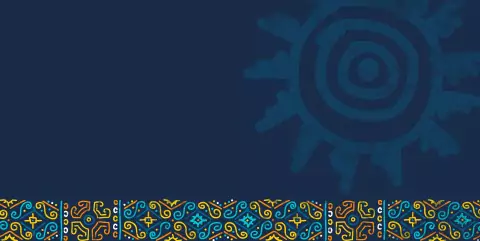
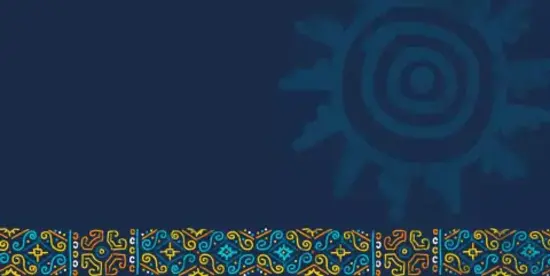
Minor Changes

Changed region(s): [[0.0, 0.8133, 1.0, 1.0]]

diff --git a/ucsd.edu/index.html b/ucsd.edu/index.html
@@ -824,7 +824,7 @@
               <img
                 alt="Two researchers look at large wildfire camera feeds"
                 class="first-slide"
-                src="_images/homepage/img-hero-wildfire-video-2023/original.webp"
+                src="_images/homepage/img-hero-wildfire-video-2023/small.webp"
                 tabindex="0"
               />
             </picture>
@@ -1110,10 +1110,12 @@
                       />
                     </picture>
                     <p class="news-date">October 24, 2023</p>
-                    <h4>
-                      ALERTCalifornia and CAL FIRE’s Fire Detection AI Program
-                      Named One of TIME’s Best Inventions of 2023
-                    </h4>
+                    <div>
+                      <strong>
+                        ALERTCalifornia and CAL FIRE’s Fire Detection AI Program
+                        Named One of TIME’s Best Inventions of 2023
+                      </strong>
+                    </div>
                   </div>
                 </a>
                 <a
@@ -1129,10 +1131,12 @@
                       />
                     </picture>
                     <p class="news-date">October 23, 2023</p>
-                    <h4>
-                      Computer Science Students Garner 2023 Google PhD
-                      Fellowships
-                    </h4>
+                    <div>
+                      <strong>
+                        Computer Science Students Garner 2023 Google PhD
+                        Fellowships
+                      </strong>
+                    </div>
                   </div>
                 </a>
                 <a
@@ -1148,9 +1152,11 @@
                       />
                     </picture>
                     <p class="news-date">October 24, 2023</p>
-                    <h4>
-                      Rady School Celebrates 20 Years of Innovation and Impact
-                    </h4>
+                    <div>
+                      <strong>
+                        Rady School Celebrates 20 Years of Innovation and Impact
+                      </strong>
+                    </div>
                   </div>
                 </a>
               </div>
@@ -1426,10 +1432,10 @@
             <div class="col-md-5">
               <div class="panel panel-default">
                 <div class="panel-body text-center">
-                  <h4>
+                  <div>
                     Get an inside look at UC San Diego&#8212;from anywhere in
                     the world.
-                  </h4>
+                  </div>
                   <p>
                     <a
                       class="btn btn-primary"

diff --git a/ucsd.edu/_resources/css/animate.css b/ucsd.edu/_resources/css/animate.css
@@ -1,0 +1,8 @@
+@charset "UTF-8";
+
+.animated {
+  -webkit-animation-duration: 1s;
+  animation-duration: 1s;
+  -webkit-animation-fill-mode: both;
+  animation-fill-mode: both;
+}
